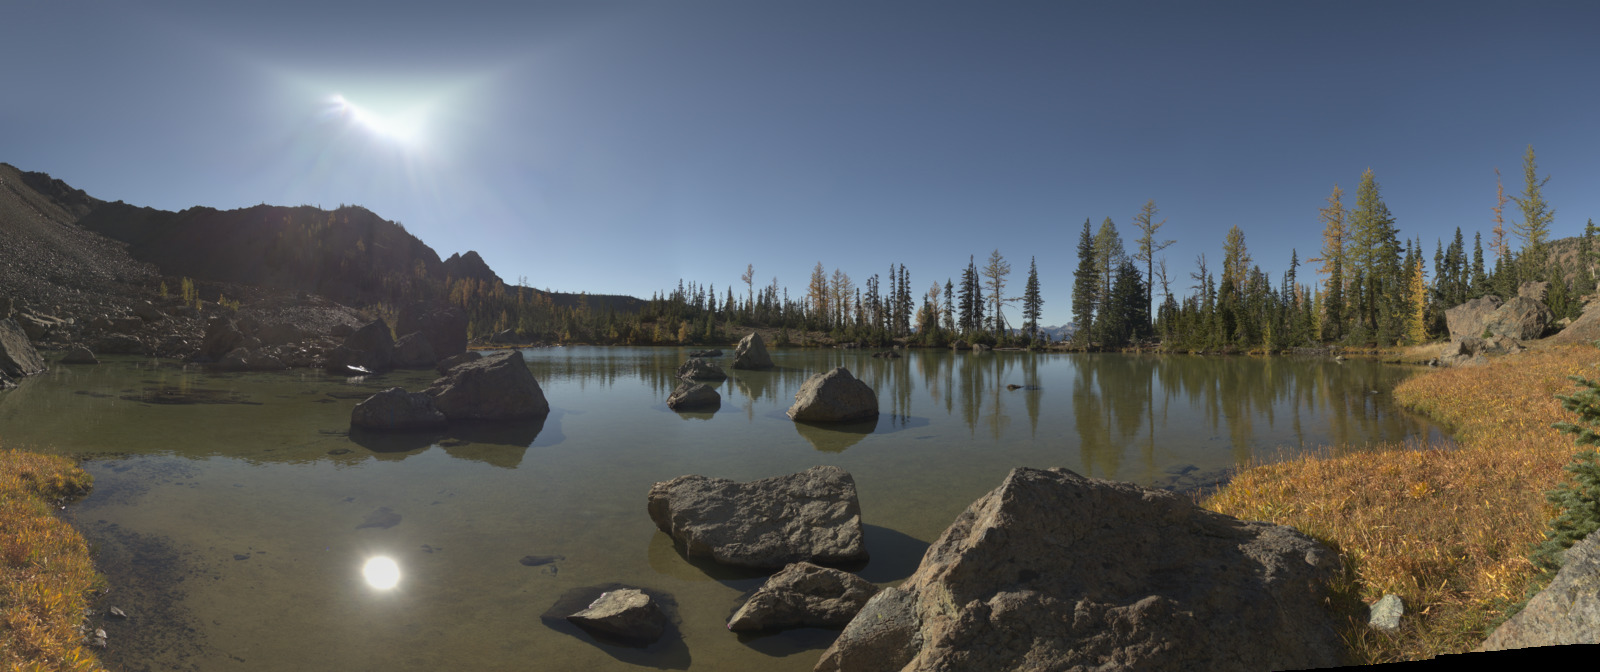
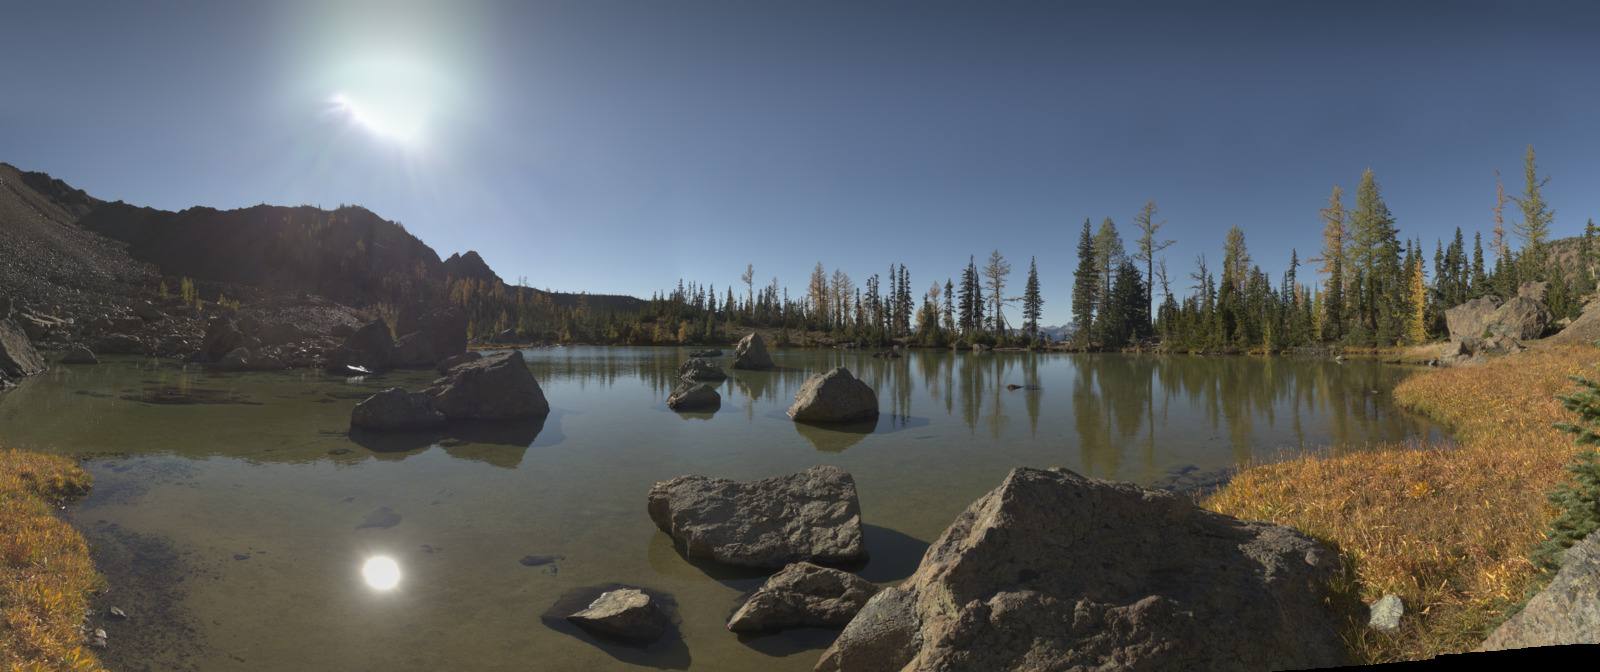
Examples for the new code on Dec 27, 2021

Changed region(s): [[0.1562, 0.0, 0.3125, 0.1562]]

diff --git a/examples/examples_README.md b/examples/examples_README.md
@@ -1,0 +1,8 @@
+# some examples
+The file doall.sh shows the command line parameters used
+
+Generally the filename prefixes that end in "sf" are the skyfilled images
+
+These are jpegs created from the original tiffs -- the skyfill_tif program will
+not work with these images.  The original tiffs are too large to put on github, so
+these examples were created to show the output from skyfill_tif.
